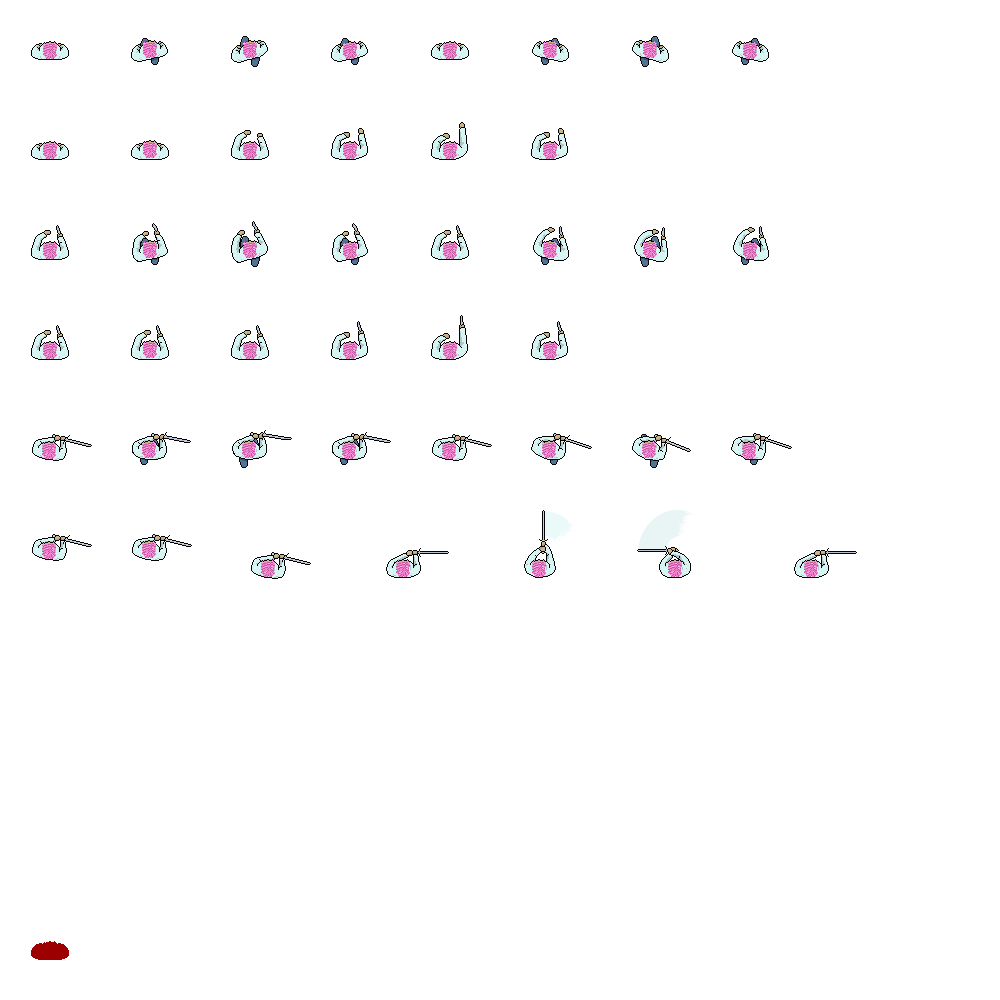
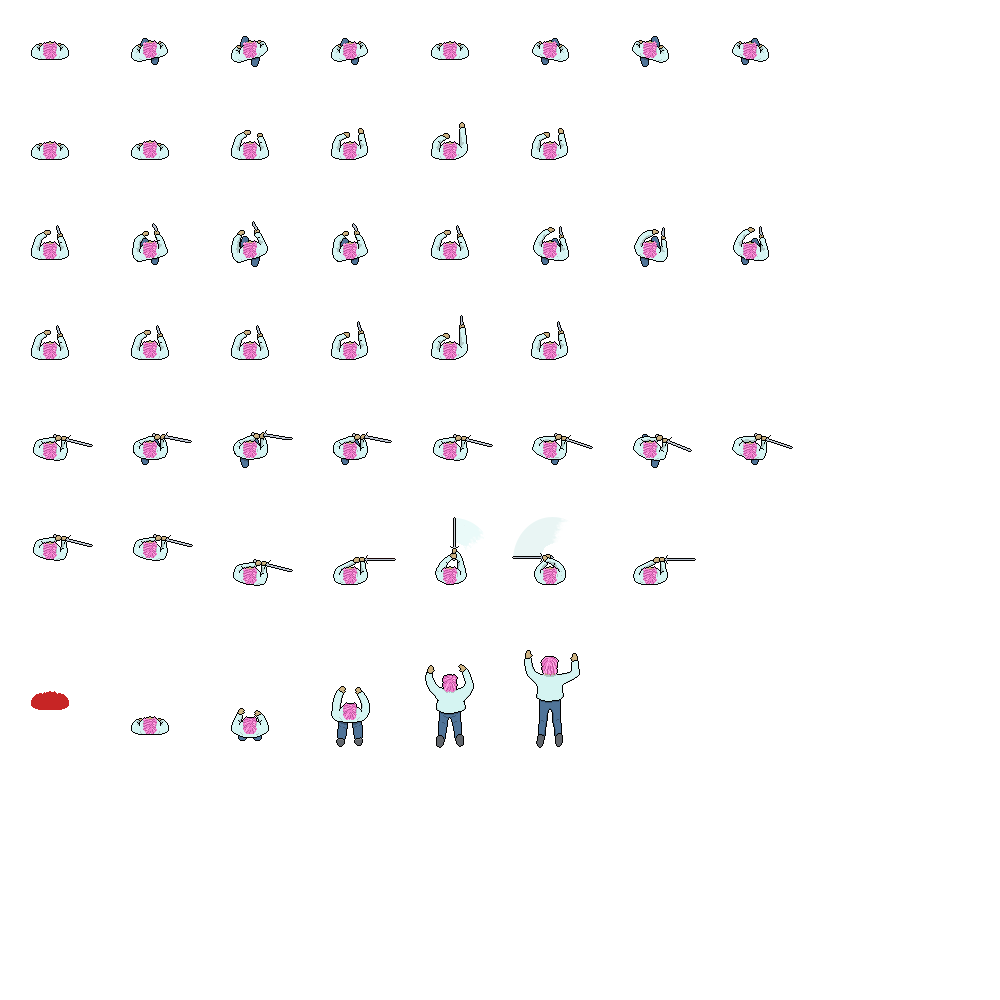
deprecated

diff --git a/lilfrump.js b/lilfrump.js
@@ -1,16 +1,16 @@
 function Frump(game) {
     this.idle = new Animation(ASSET_MANAGER.getAsset("./img/LilFrump.png"), 0, 200, 200, 200, 0.4, 2, true, false);
     this.walk = new Animation(ASSET_MANAGER.getAsset("./img/LilFrump.png"), 0, 0, 200, 200, 0.1, 8, true, false);
-    this.hurting = new Animation(ASSET_MANAGER.getAsset("./img/LilFrump.png"), 0, 1800, 200, 200, 0.1, 1, false, false);
+    this.hurting = new Animation(ASSET_MANAGER.getAsset("./img/LilFrump.png"), 0, 1300, 200, 200, 0.1, 1, false, false);
     this.attack = new Animation(ASSET_MANAGER.getAsset("./img/LilFrump.png"), 400, 200, 200, 200, 0.1, 4, false, false);
-    // this.die = new Animation(ASSET_MANAGER.getAsset("./img/LilFrump.png"), 0, 1200, 200, 200, 0.1, 3, false, false);
+    this.deathAnim = new Animation(ASSET_MANAGER.getAsset("./img/LilFrump.png"), 200, 1300, 200, 300, 0.1, 5, false, false);
     // this.dead = new Animation(ASSET_MANAGER.getAsset("./img/LilFrump.png"), 400, 1200, 200, 200, 1, 1, false, false);
     this.knifeWalk = new Animation(ASSET_MANAGER.getAsset("./img/LilFrump.png"), 0, 400, 200, 200, 0.1, 8, true, false);
     this.knifeIdle = new Animation(ASSET_MANAGER.getAsset("./img/LilFrump.png"), 0, 600, 200, 200, 0.4, 2, true, false);
     this.knifeAttack = new Animation(ASSET_MANAGER.getAsset("./img/LilFrump.png"), 400, 600, 200, 200, 0.05, 4, false, false);
     this.swordWalk = new Animation(ASSET_MANAGER.getAsset("./img/LilFrump.png"), 0, 800, 200, 200, 0.1, 8, true, false);
     this.swordIdle = new Animation(ASSET_MANAGER.getAsset("./img/LilFrump.png"), 0, 1000, 200, 200, 0.4, 2, true, false);
-    this.swordAttack = new Animation(ASSET_MANAGER.getAsset("./img/LilFrump.png"), 400, 1000, 272, 272, 0.1, 5, false, false);
+    this.swordAttack = new Animation(ASSET_MANAGER.getAsset("./img/LilFrump.png"), 400, 1000, 200, 300, 0.1, 5, false, false);
 
     this.sides = 38;
     this.faces = 20;
@@ -37,6 +37,10 @@ Frump.prototype.constructor = Frump;
 
 Frump.prototype.update = function () {
     // console.log('P: ' + this.health);
+    if (this.health <= 0) {
+        this.dying = true;
+        this.health = 10;
+    }
     if (this.attackTimer > 0) this.attackTimer--;
     if (this.hitTimer > 0) this.hitTimer--;
     if (this.hitTimer == 0) this.hit = false;
@@ -49,9 +53,15 @@ Frump.prototype.update = function () {
     if (!this.game.shift & !this.game.space) this.weapon = "unarmed";
     if (this.game.clickmouse && this.attackTimer == 0) {
         this.attacking = true;
-        if (this.weapon == 'unarmed') this.attackTimer = 110;
-        else if (this.weapon = 'knife') this.attackTimer = 105;
-        else this.attackTimer = 115;
+        if (this.weapon == 'unarmed') this.attackTimer = 109;
+        else if (this.weapon = 'knife') this.attackTimer = 106;
+        else this.attackTimer = 112;
+    }
+    if (this.dying) {
+        if (this.deathAnim.isDone()) {
+            this.deathAnim.elapsedTime = 0;
+            this.dying = false;
+        }
     }
     if (this.hit) {
         if (this.hurting.isDone()) {
@@ -65,7 +75,7 @@ Frump.prototype.update = function () {
             if (this.attack.isDone()) {
                 this.attack.elapsedTime = 0;
                 this.attacking = false;
-                this.attackTimer = 35;
+                this.attackTimer = 30;
             }
         }
         if(this.weapon == "knife") {
@@ -73,7 +83,7 @@ Frump.prototype.update = function () {
             if (this.knifeAttack.isDone()) {
                 this.knifeAttack.elapsedTime = 0;
                 this.attacking = false;
-                this.attackTimer = 10;
+                this.attackTimer = 9;
             }
         }
         if(this.weapon == "sword") {
@@ -81,7 +91,7 @@ Frump.prototype.update = function () {
             if (this.swordAttack.isDone()) {
                 this.swordAttack.elapsedTime = 0;
                 this.attacking = false;
-                this.attackTimer = 20;
+                this.attackTimer = 18;
             }
         }        
     }
@@ -116,12 +126,12 @@ Frump.prototype.update = function () {
     for (var i = 0; i < this.game.entities.length; i++) {
         var ent = this.game.entities[i];
         if (ent.enemy) {
-            if (this.attacking && this.hurt(ent) && this.attackTimer <= 100 && ent.hitTimer == 0) {
+            if (this.attacking && this.hurt(ent) && this.attackTimer <= 100 && this.attackTimer >= 88 && ent.hitTimer == 0) {
                 ent.health--;
                 ent.hit = true;
-                if (this.weapon == 'knife') ent.hitTimer = 10;
-                else if (this.weapon == 'unarmed') ent.hitTimer = 35;
-                else ent.hitTimer = 40;
+                if (this.weapon == 'knife') ent.hitTimer = 12;
+                else if (this.weapon == 'unarmed') ent.hitTimer = 30;
+                else ent.hitTimer = 32;
             }
         }
     }
@@ -152,7 +162,8 @@ Frump.prototype.draw = function (ctx) {
     //     //supposed to just play the last frame of the death animation
     //     this.dead.drawFrame(this.game.clockTick, ctx, this.x, this.y, this.rotation);
     // }
-    if (this.hit) this.hurting.drawFrame(this.game.clockTick, ctx, this.x, this.y, this.rotation+Math.PI/2);
+    if (this.dying) this.deathAnim.drawFrame(this.game.clockTick, ctx, this.x, this.y, this.rotation+Math.PI/2);
+    else if (this.hit) this.hurting.drawFrame(this.game.clockTick, ctx, this.x, this.y, this.rotation+Math.PI/2);
     else if (this.attacking) {
         if (this.weapon == "unarmed") this.attack.drawFrame(this.game.clockTick, ctx, this.x, this.y, this.rotation+Math.PI/2);
         if (this.weapon == "knife") this.knifeAttack.drawFrame(this.game.clockTick, ctx, this.x, this.y, this.rotation+Math.PI/2);

diff --git a/main.js b/main.js
@@ -71,12 +71,29 @@ Background.prototype.draw = function (ctx) {
     Entity.prototype.draw.call(this);
 }
 
+function Street(game, image) {
+    Entity.call(this, game, 0, 0);
+    this.image = image;
+}
+
+Street.prototype = new Entity();
+Street.prototype.constructor = Street;
+
+Street.prototype.update = function() {
+}
+
+Street.prototype.draw = function (ctx) {
+    ctx.drawImage(ASSET_MANAGER.getAsset(this.image), 0, 0);
+    Entity.prototype.draw.call(this);
+}
+
 // the "main" code begins here
 var friction = 8;
 
 var ASSET_MANAGER = new AssetManager();
 
-ASSET_MANAGER.queueDownload("./img/background.png")
+ASSET_MANAGER.queueDownload("./img/background.png");
+ASSET_MANAGER.queueDownload("./img/street1.png");
 ASSET_MANAGER.queueDownload("./img/LilFrump.png");
 ASSET_MANAGER.queueDownload("./img/LilFrumpSheet.png");
 ASSET_MANAGER.queueDownload("./img/EnemyBig.png");
@@ -87,11 +104,12 @@ ASSET_MANAGER.downloadAll(function () {
     var ctx = canvas.getContext('2d');
 
     var gameEngine = new GameEngine();
-    var bg = new Background(gameEngine);
+    //var bg = new Background(gameEngine);
+    var street = new Street(gameEngine, "./img/street1.png");
     var frump = new Frump(gameEngine);
     //var enemy = new Enemy(gameEngine);
 
-    gameEngine.addEntity(bg);
+    gameEngine.addEntity(street);
     var enemies = Math.floor(Math.random()*2+1);
     for (var j = 0; j < enemies; j++) gameEngine.addEntity(new Enemy(gameEngine));
     gameEngine.addEntity(frump);

diff --git a/enemy.js b/enemy.js
@@ -80,7 +80,7 @@ Enemy.prototype.update = function () {
                     this.attacking = true;
                     this.attackTimer = 90;
                 }
-                if (this.attacking && this.hurt(ent) && this.attackTimer <= 75 && ent.hitTimer == 0) {
+                if (this.attacking && this.hurt(ent) && this.attackTimer <= 78 && this.attackTimer >= 66 && ent.hitTimer == 0) {
                     ent.health--;
                     ent.hit = true;
                     ent.hitTimer = this.attackTimer;

diff --git a/index.html b/index.html
@@ -11,6 +11,6 @@
     <script type="text/javascript" src="./main.js"></script>
 </head>
 <body>
-    <canvas id="gameWorld" tabindex="1" width="1280" height="720" style="border: 1px solid brown; background: lightskyblue"></canvas>
+    <canvas id="gameWorld" tabindex="1" width="1280" height="720" style="border: 1px solid black; background: whitesmoke"></canvas>
 </body>
 </html>
